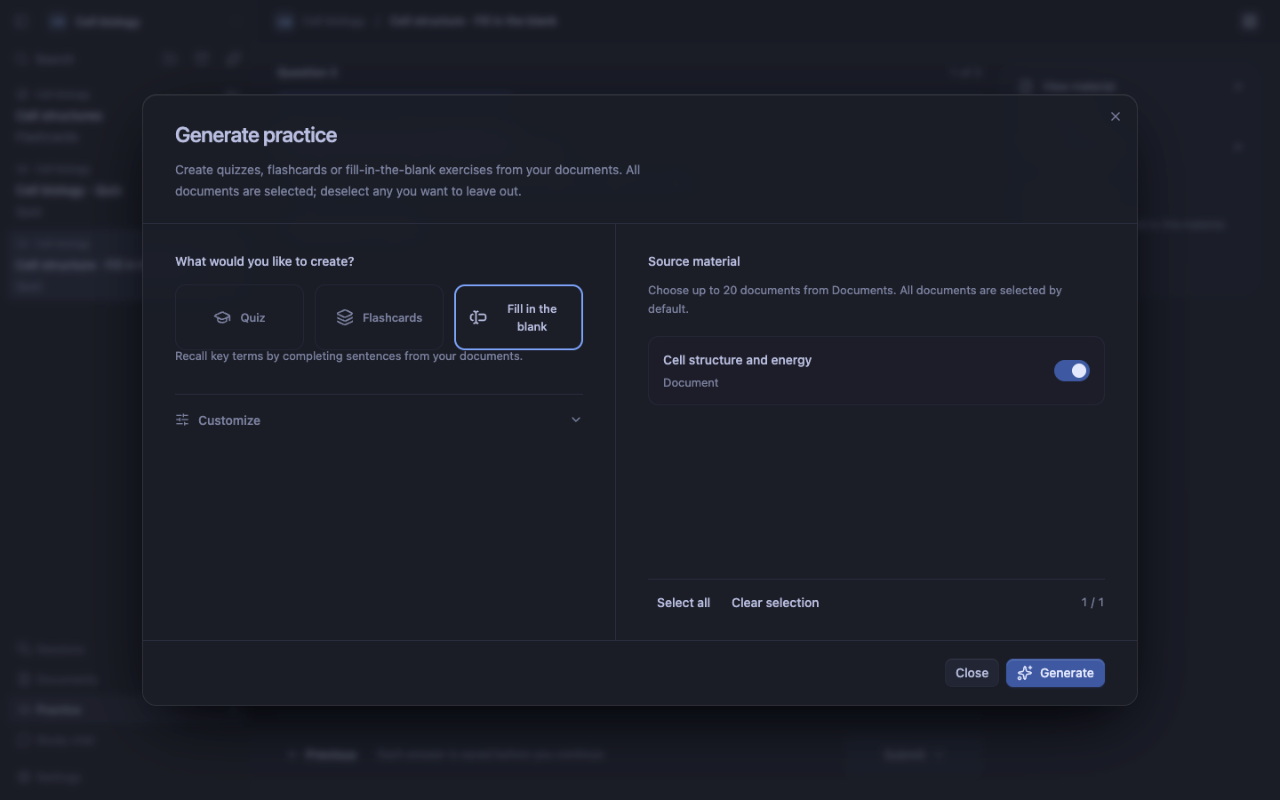
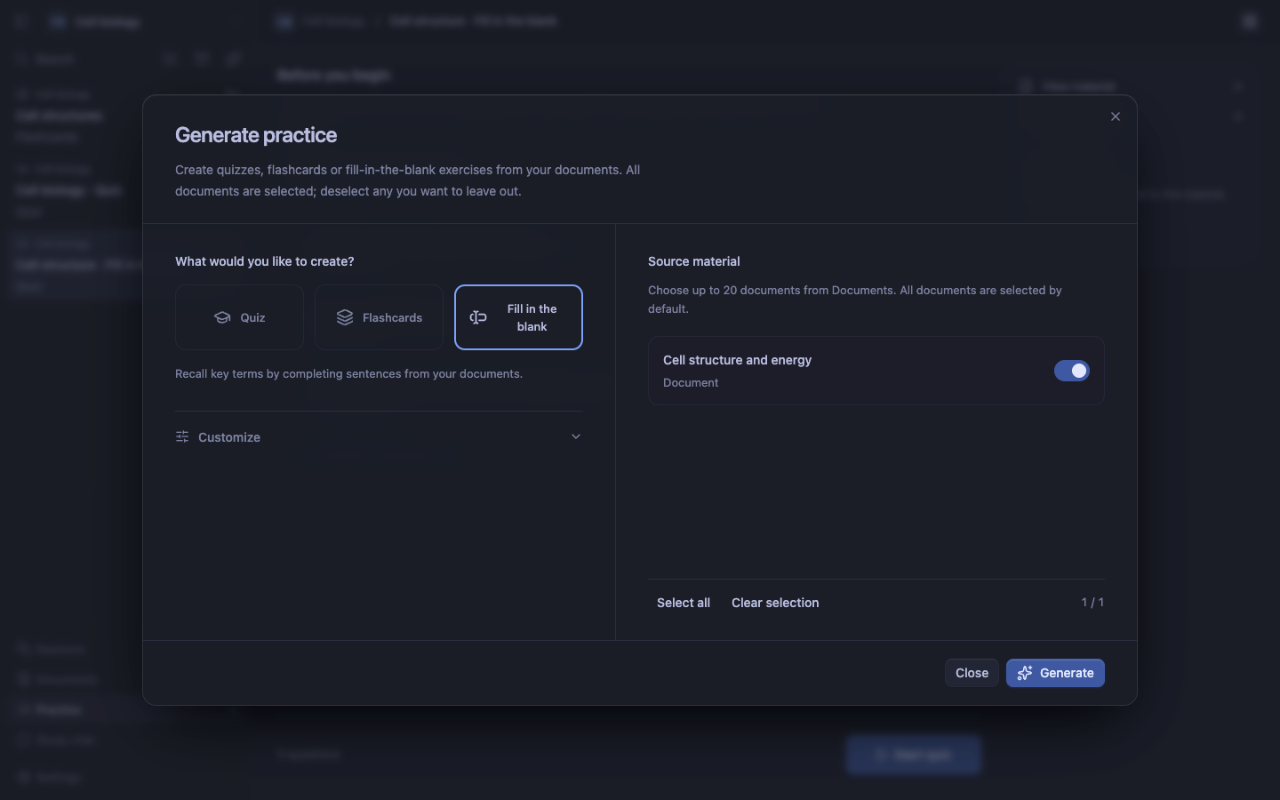
Give practice generation guidance more breathing room

diff --git a/packages/ui/src/components/practice.css b/packages/ui/src/components/practice.css
@@ -843,6 +843,10 @@
   height: 1.25rem;
   flex-shrink: 0;
 }
+.study-generation-brief .settings-section > .settings-intro {
+  margin: 1rem 0 0;
+  line-height: 1.6;
+}
 .study-generation-brief textarea {
   min-height: 9rem;
   resize: vertical;
